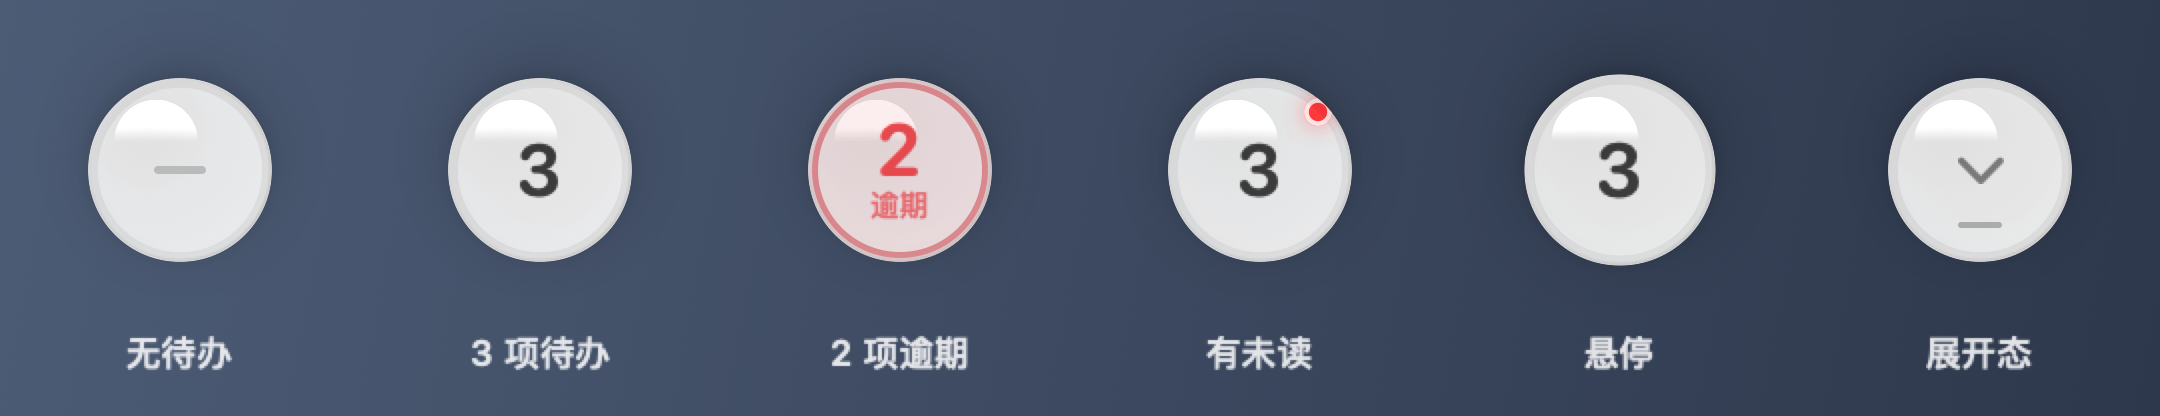
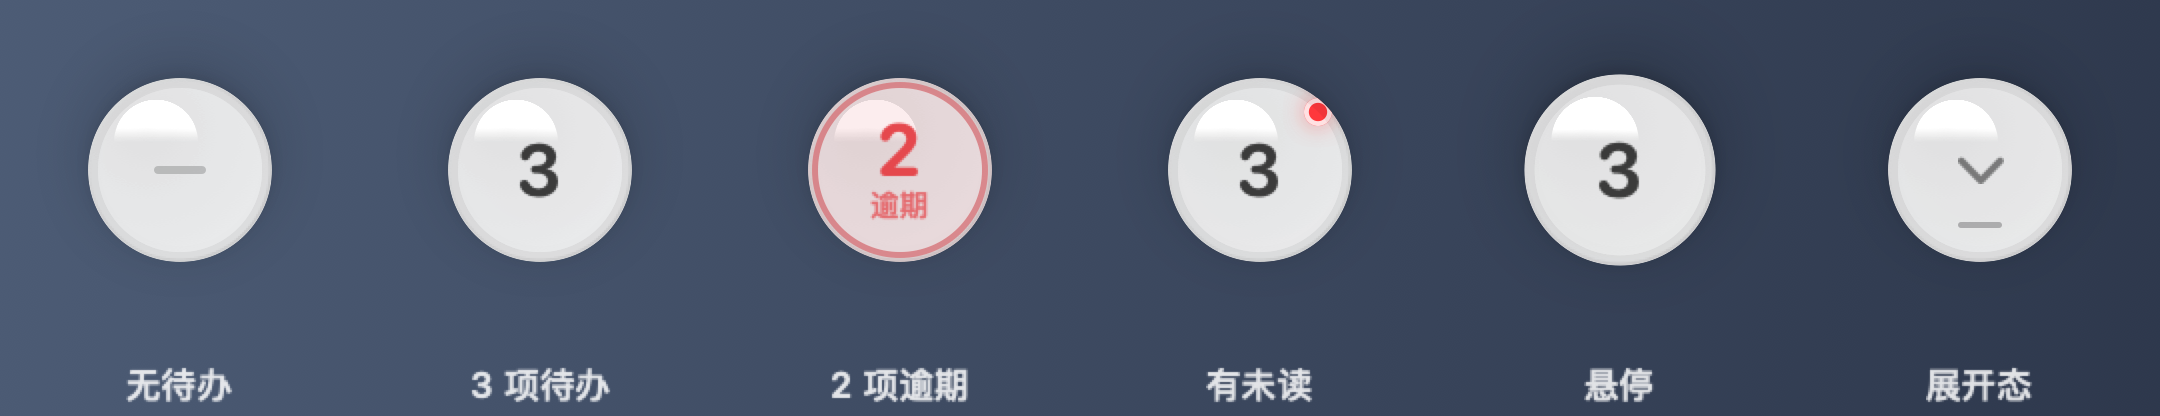
fix(orb): 修掉悬浮球周围的方形底色
现象：球外面能看到一个方形边界，浅色壁纸下尤其明显。

根因不是某层画了底色，而是**阴影被窗口裁剪**：
SwiftUI 画的阴影会向外扩散到窗口矩形之外，超出部分被硬切，
在窗口边缘留下一条整齐的暗边——看起来就像给球垫了个方底。

数据（浅色背景 0.969 上逐像素扫窗口边界）：
  窗口外 x0..16: 0.969 0.969 0.969 0.969 0.969   ← 干净
  窗口内 x20..36: 0.950 0.944 0.947 0.937 0.921   ← 突然变暗
无反差的对照组（不画阴影）窗口内外一致为 0.969，
确认这条暗边就是阴影断口。

窗口 52 → 64 → 80pt。64pt 时留白 9pt 仍小于阴影的 13pt 需求，
所以上一版看起来"更明显"了。80pt 给了 17pt 留白，足够。

同时修一处连带问题：面板原本按窗口边界算间距，
窗口变大后球体会离面板越来越远。新增 OrbMetrics.bleed，
让间距始终相对**球体**而非窗口计算。

验证（浅色背景实测截屏）：
  窗口外 0.4160 / 窗口内球外 0.4119，差值 0.0041（肉眼不可辨）
  边界逐像素 0.9688→0.9657→0.9625→0.9594，平滑无台阶
  真实窗口四角 alpha 全为 0.000
  球体右缘到面板左缘 10pt，符合设计

diff --git a/Sources/MemoNative/OrbMetrics.swift b/Sources/MemoNative/OrbMetrics.swift
@@ -5,16 +5,21 @@ import CoreGraphics
 /// 单独成文件：这里只有纯数值，不依赖 AppKit/SwiftUI 的任何视图类型，
 /// 因此可以被单元测试直接链接验证，而不用把整个 UI 层拖进测试目标。
 enum OrbMetrics {
-    /// 窗口尺寸（含阴影留白）
+    /// 窗口尺寸（含阴影与光晕的留白）
     ///
-    /// 实测：球体 46pt + 逾期光晕 + 双层阴影 的外接尺寸约 62pt。
-    /// 之前是 52pt，光晕和阴影会被窗口边缘裁掉，看起来"脏"。
-    /// 这里留 2pt 余量。
-    static let size: CGFloat = 64
+    /// 这个值必须让**阴影完整落在窗口内**，否则窗口边缘会把阴影硬切一刀，
+    /// 在浅色背景上看起来就是一个"方形底"。
+    ///
+    /// 需求：球体 46pt + 2 × (阴影最大扩散 13pt + 余量 4pt) ≈ 80pt。
+    /// 曾用 52 / 64，都因为留白不足而出现方形切边。
+    static let size: CGFloat = 80
     /// 圆形气泡的可视直径
     static let bubble: CGFloat = 46
-    /// 球与展开面板之间的间距
+    /// 球**体**与展开面板之间的视觉间距
     static let gap: CGFloat = 10
+
+    /// 窗口每边比球体多出的留白（阴影与光晕用掉的空间）
+    static var bleed: CGFloat { (size - bubble) / 2 }
     /// 吸附到屏幕边缘时的内缩
     static let snapInset: CGFloat = 12
 }

diff --git a/Sources/MemoNative/PanelController.swift b/Sources/MemoNative/PanelController.swift
@@ -333,13 +333,16 @@ final class PanelController {
         guard let screen else { panel.center(); return }
         let visible = screen.visibleFrame
 
+        // orbFrame 是窗口，比球体每边大 bleed。
+        // 要让面板离**球体**保持 gap，得把这段留白补回来。
+        let bleed = OrbMetrics.bleed
         var origin = NSPoint(
-            x: orbFrame.minX - size.width - gap,
+            x: orbFrame.minX + bleed - size.width - gap,
             y: orbFrame.midY - size.height / 2
         )
         // 左边放不下 → 放到球右边
         if origin.x < visible.minX + 8 {
-            origin.x = orbFrame.maxX + gap
+            origin.x = orbFrame.maxX - bleed + gap
         }
         // 右边也放不下 → 居中兜底
         if origin.x + size.width > visible.maxX - 8 {
